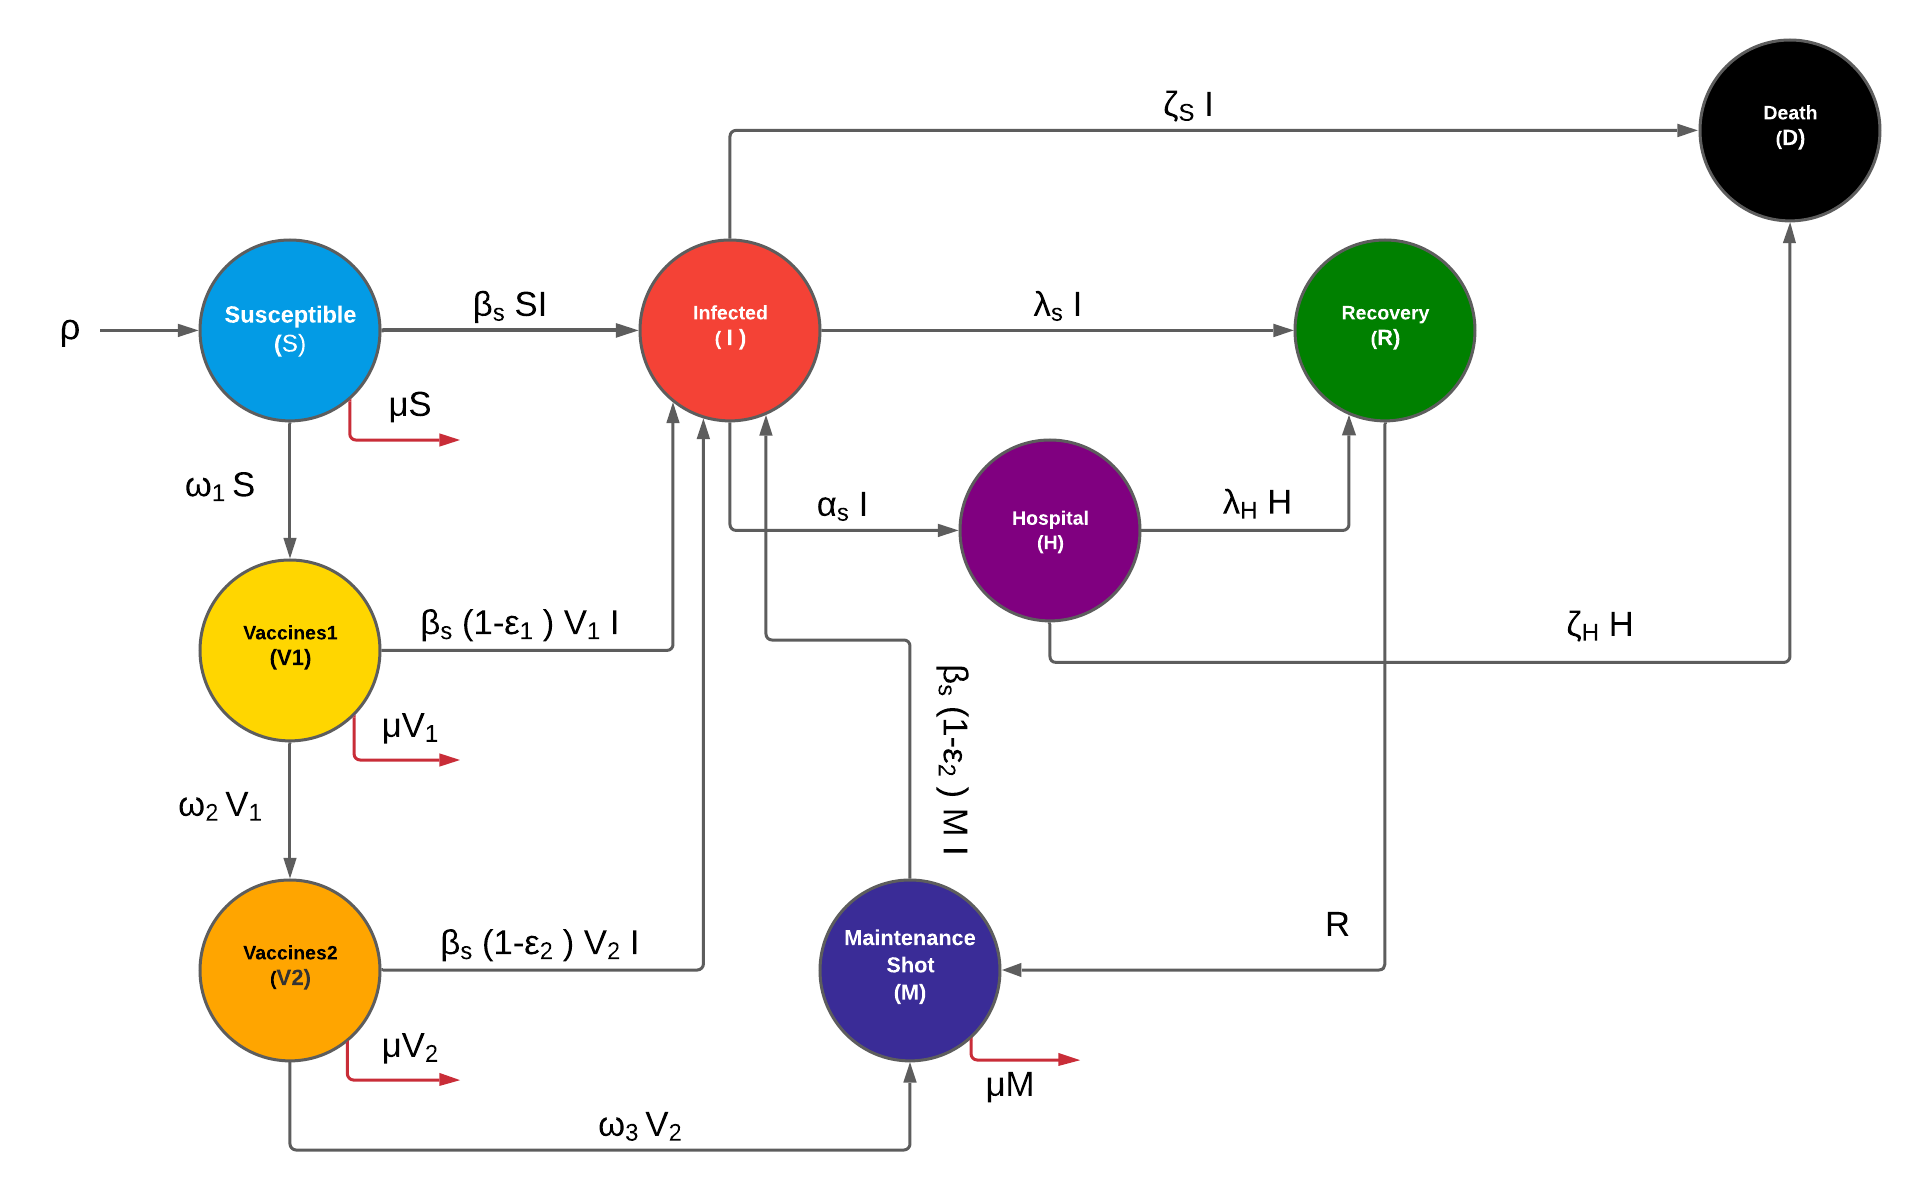
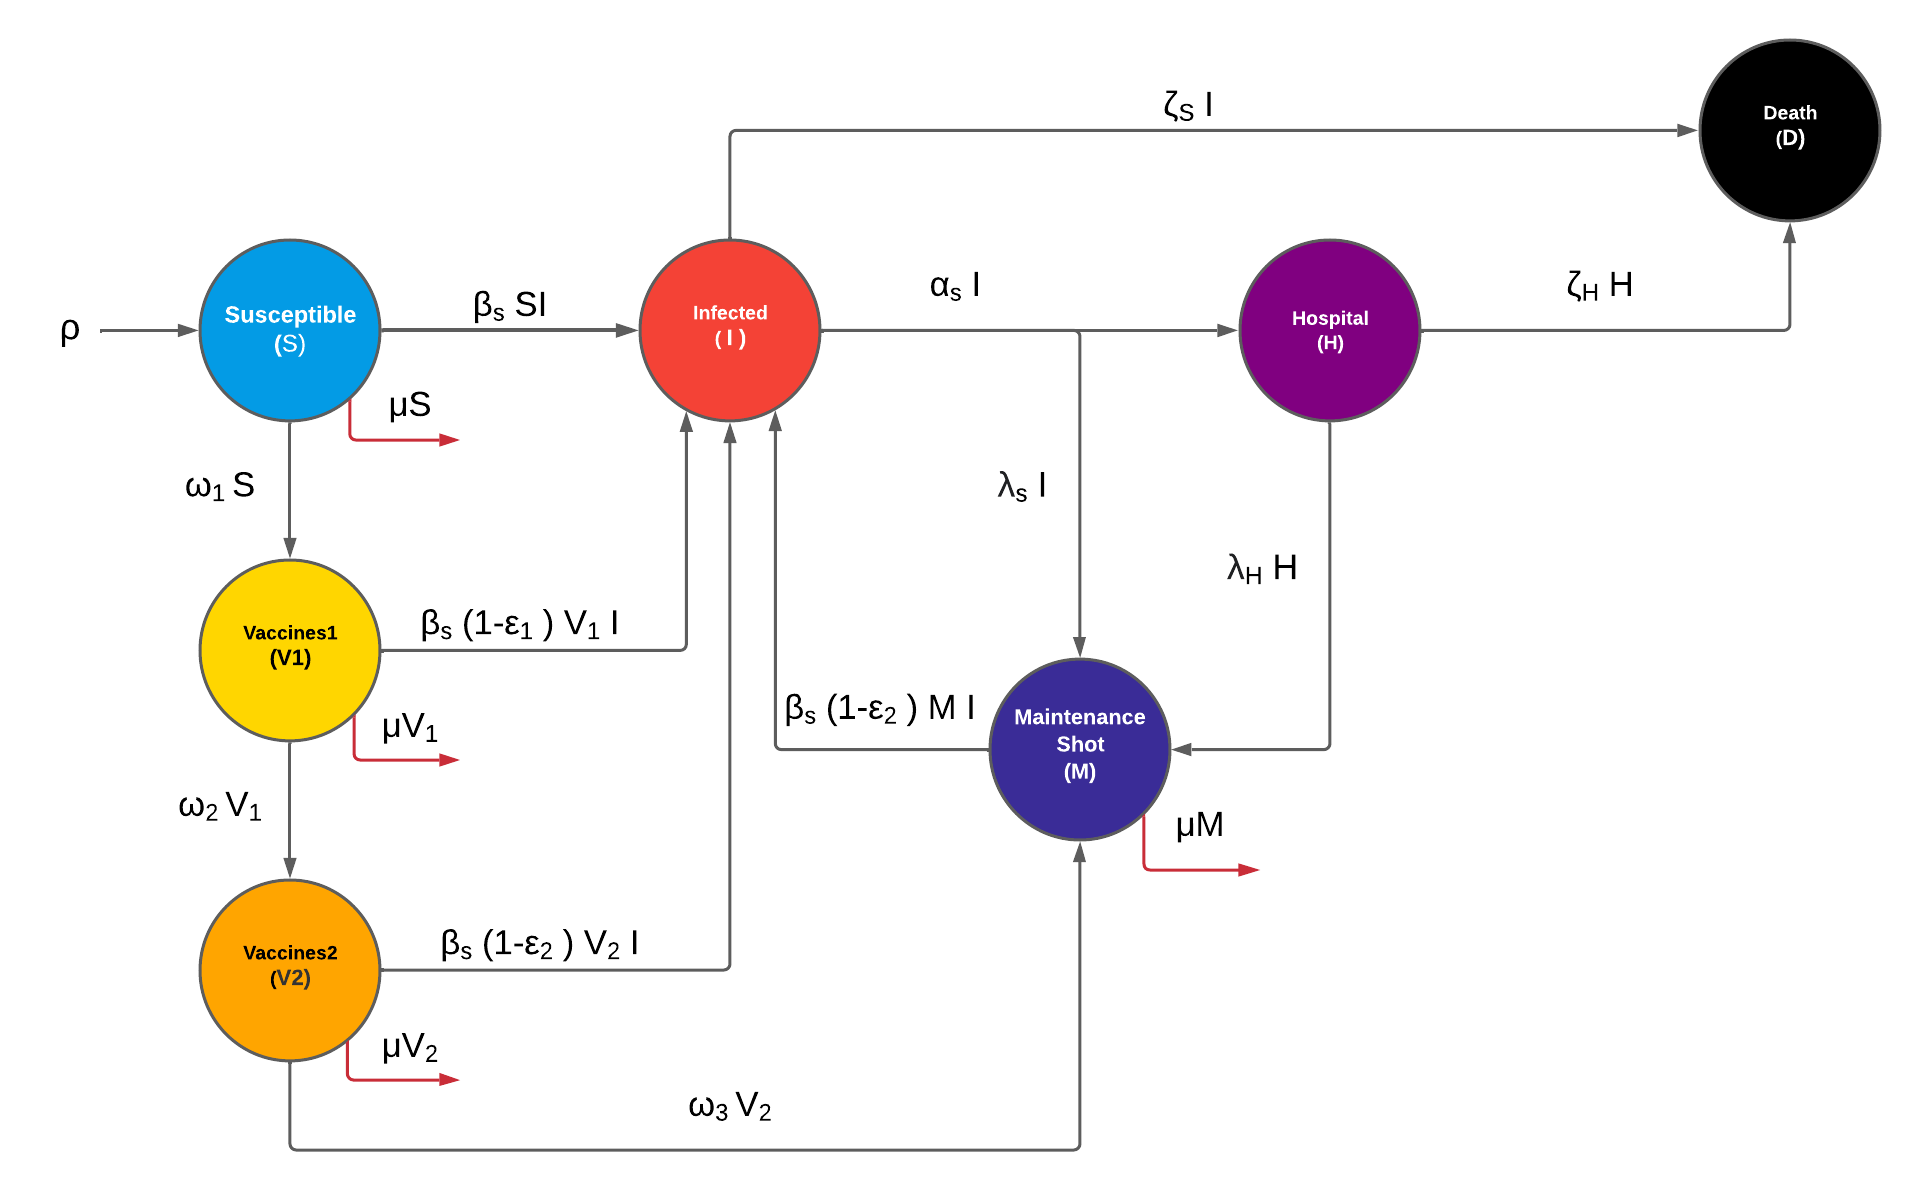
des page edit version remove r

diff --git a/src/components/ModelComponent/DescriptionEquation.jsx b/src/components/ModelComponent/DescriptionEquation.jsx
@@ -46,7 +46,9 @@ const equationCovid = [
         <sup>d(M)</sup>
         &frasl;<sub>d(t)</sub> = &omega;<sub>3</sub>V<sub>2</sub> &minus;
         &omega;
-        <sub>3</sub>V<sub>2</sub> + R &minus; &beta;<sub>S</sub>
+        <sub>3</sub>V<sub>2</sub> + &lambda;
+        <sub>H</sub>H + &lambda;
+        <sub>S</sub>I &beta;<sub>S</sub>
         (1&minus;&epsilon;
         <sub>2</sub>)MI&minus; &mu;M
       </span>
@@ -81,16 +83,16 @@ const equationCovid = [
       </span>
     ),
   },
-  {
-    node: "R",
-    equation: (
-      <span>
-        <sup>d(R)</sup>
-        &frasl;<sub>d(t)</sub> = &lambda;
-        <sub>H</sub>H + &lambda;<sub>S</sub>I &minus; R
-      </span>
-    ),
-  },
+  // {
+  //   node: "R",
+  //   equation: (
+  //     <span>
+  //       <sup>d(R)</sup>
+  //       &frasl;<sub>d(t)</sub> = &lambda;
+  //       <sub>H</sub>H + &lambda;<sub>S</sub>I &minus; R
+  //     </span>
+  //   ),
+  // },
   {
     node: "D",
     equation: (
